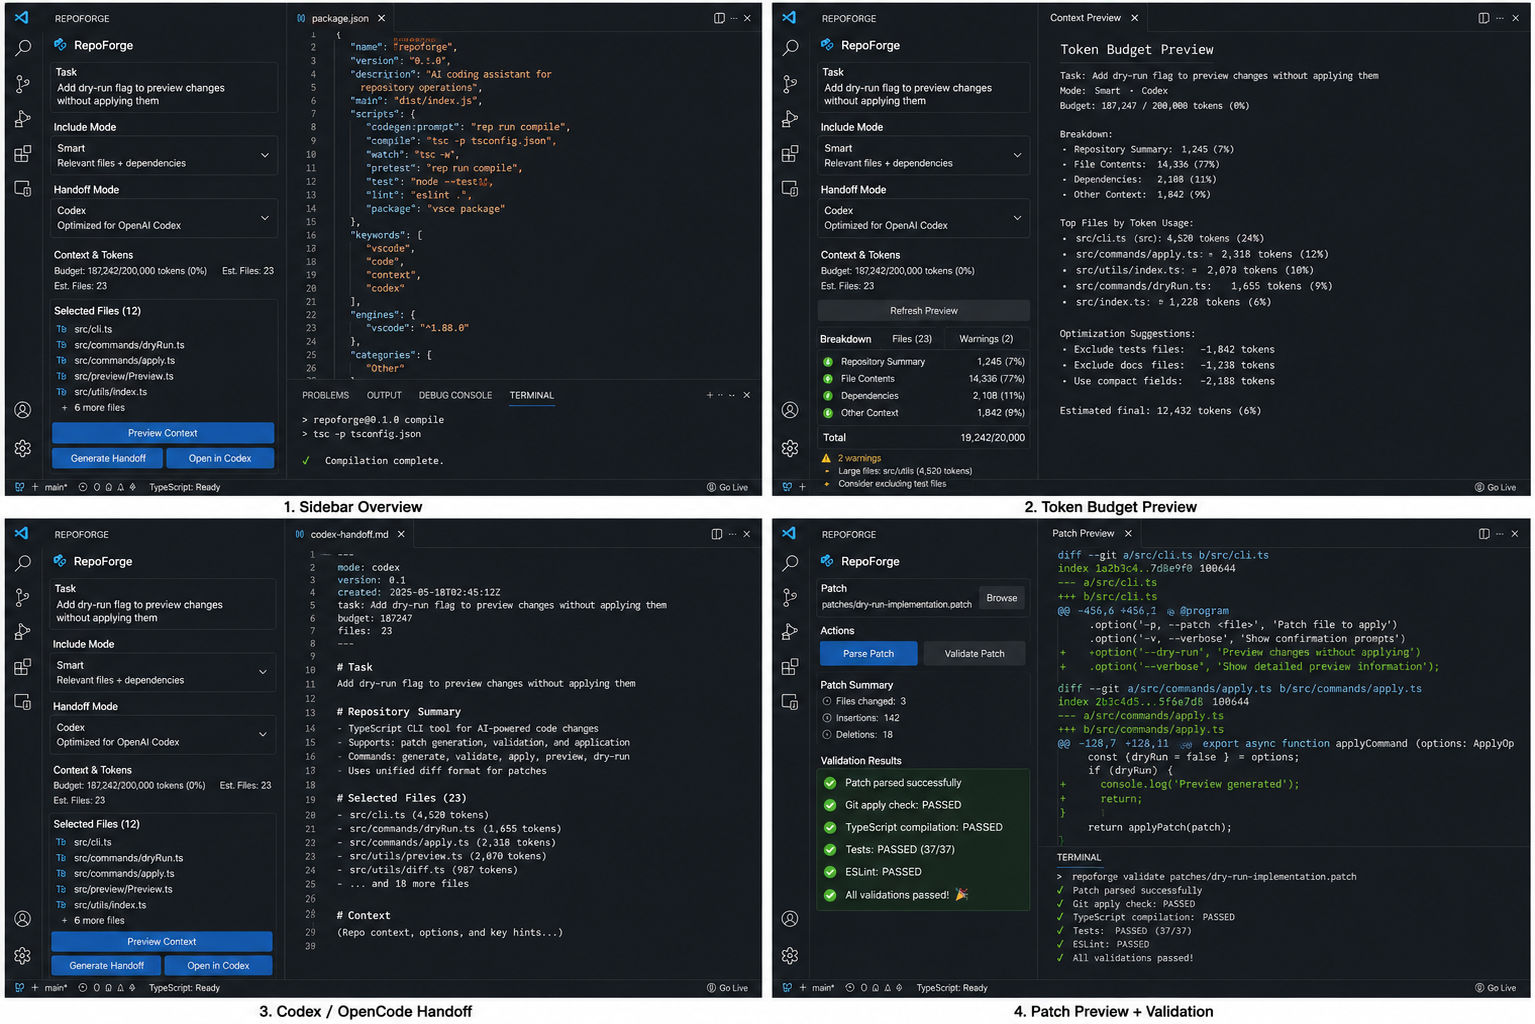
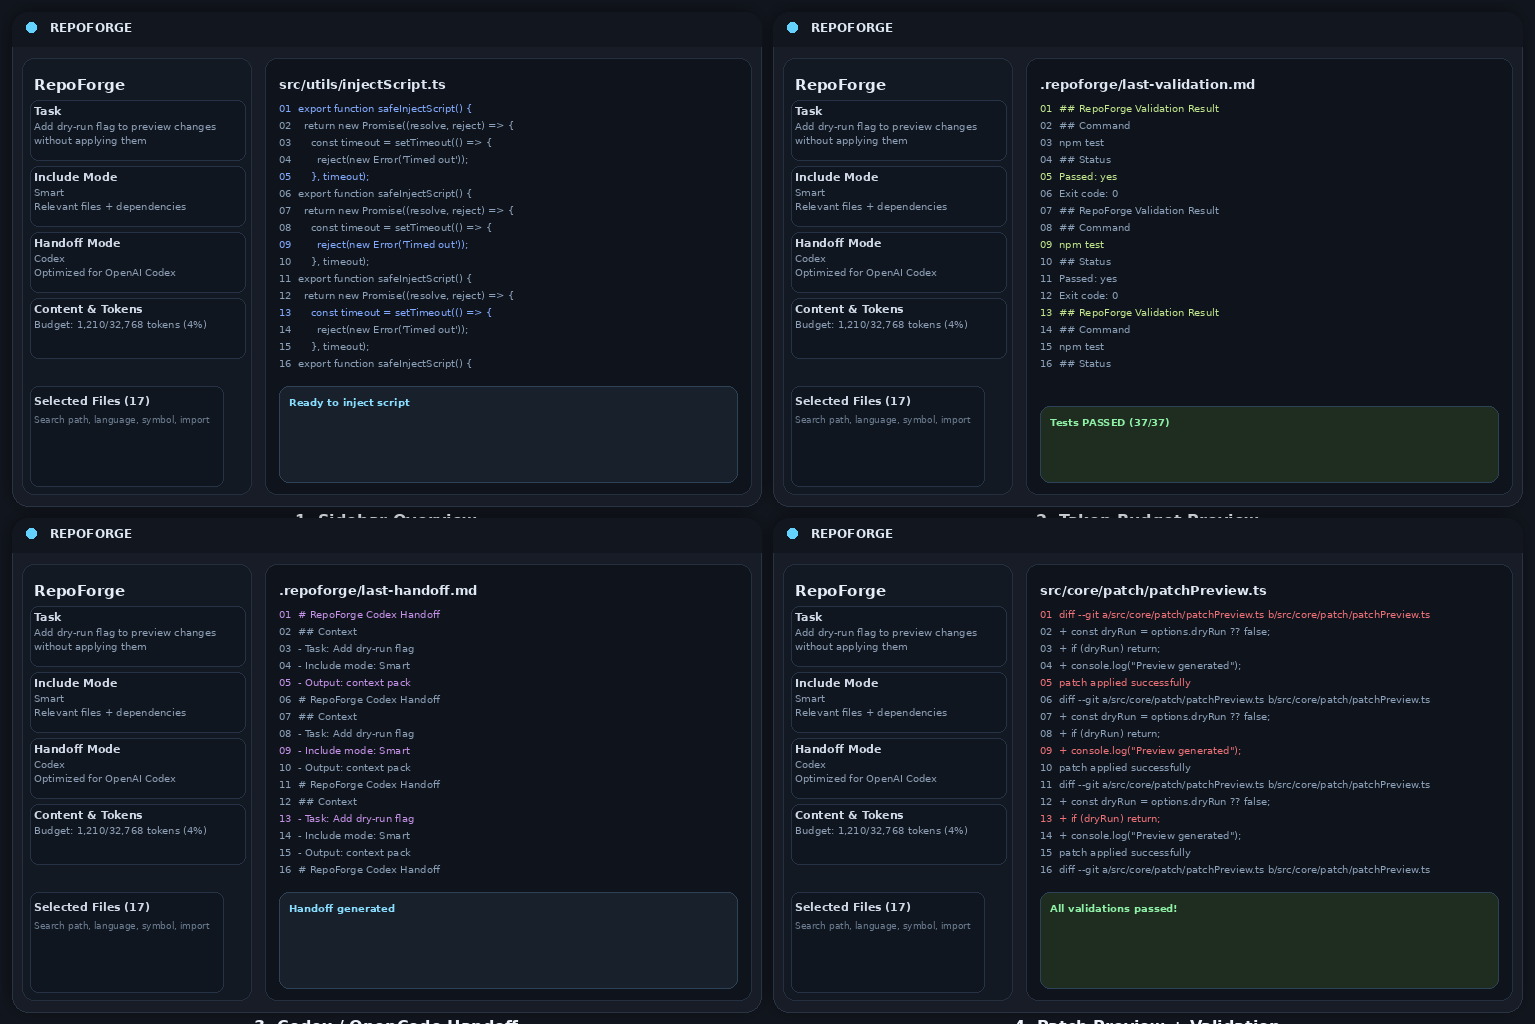
minor updates

Changed region(s): [[0.0, 0.0, 1.0, 1.0]]

diff --git a/CHANGELOG.md b/CHANGELOG.md
@@ -1,5 +1,10 @@
 # Changelog
 
+## v0.5.0.1
+
+### Changed
+- Refreshed the README screenshot asset for the GitHub release.
+
 ## v0.4.7
 
 ### Changed